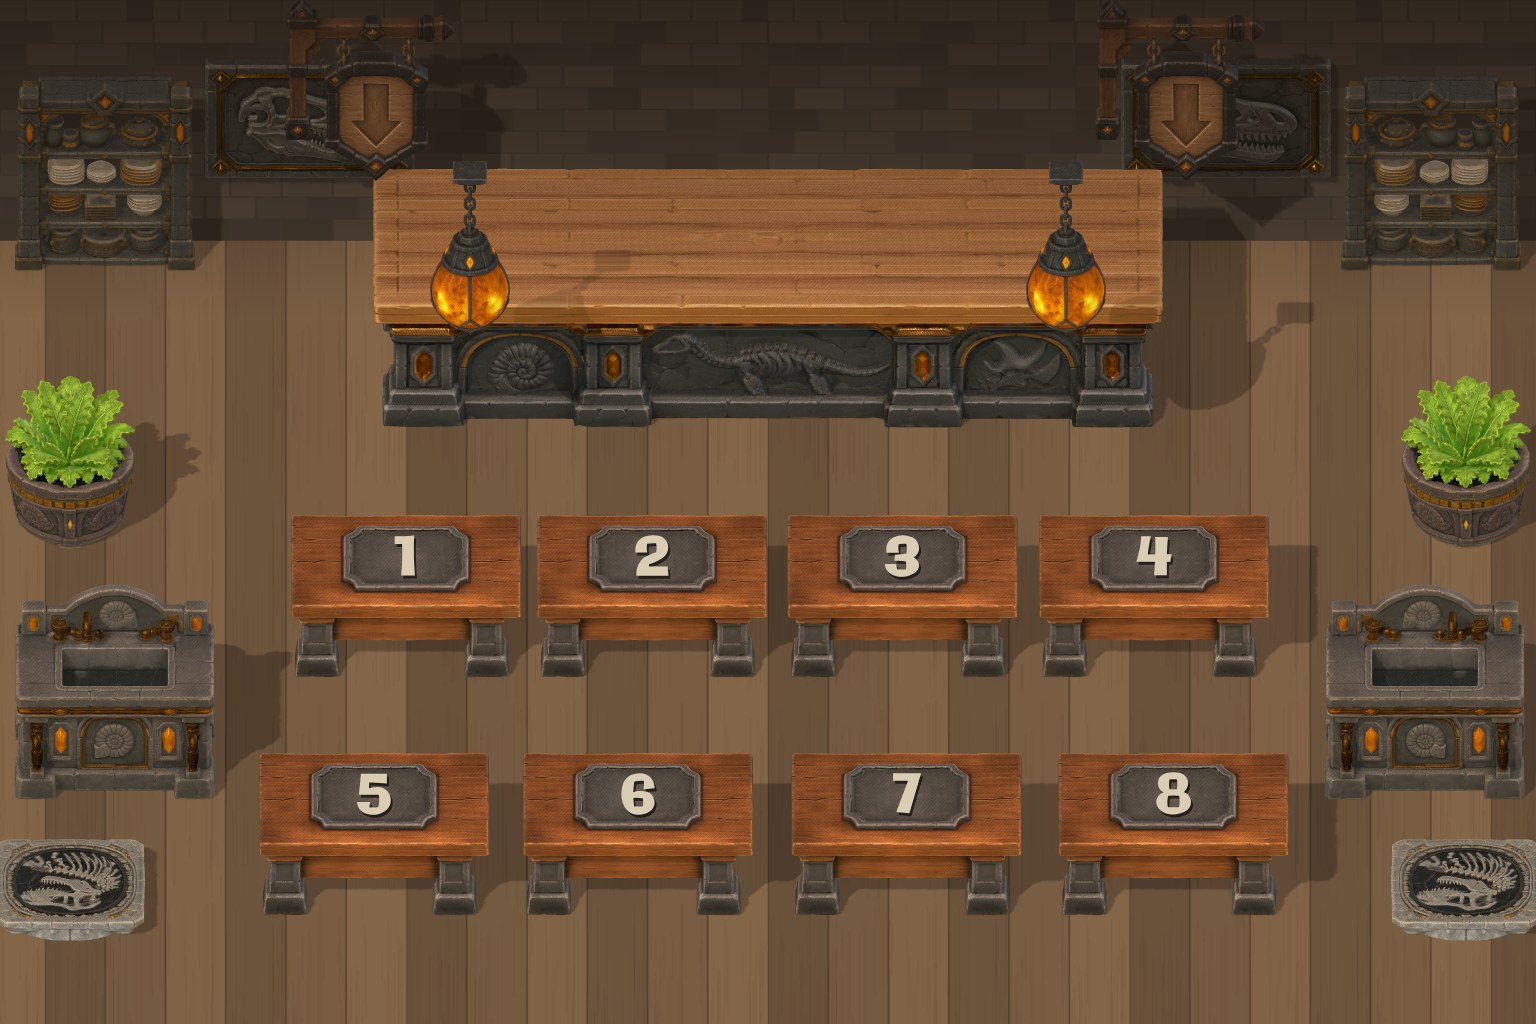
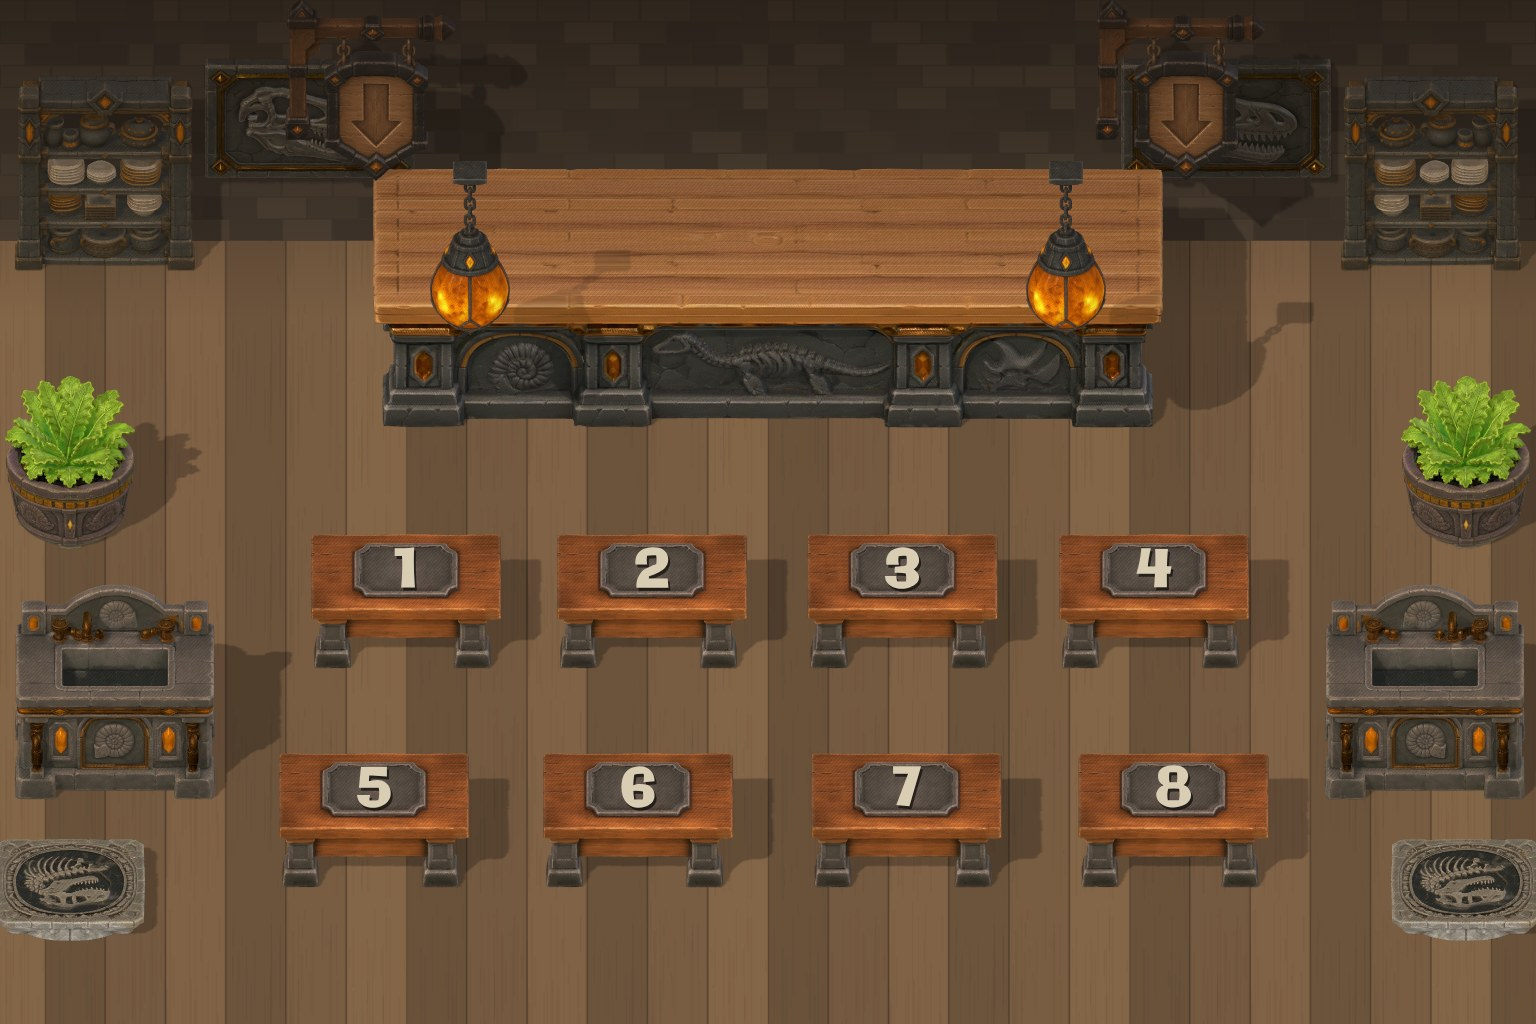
Narrow the tables, and turn the floor inlays the right way up
Two things Rone spotted in the live A/B.

The tables were tight, and the number says how tight: at 190 art px wide the
back row's columns are 246px apart, so 230px tables left 16px of floor between
them. That reads as a bench with eight plaques on it rather than eight tables.
190 opens it to 56px on the back row and 74px on the front.

It buys vertical room as well. A table's screen extent is its height plus its
projected depth, and both scale with width, so the row drops from 168px to
139px. That went into the parts of the room that were tightest: the pickup
floor gains 20px and each pad gap gains 10, so every clearance between a pad
and the furniture either side of it is now about 11px instead of 6.

The floor inlays were backwards, and the cause is the same lay-down that put
them face up in the first place. Rotating a standing prop about X to lay it
flat also turns its own "up" through 90 degrees -- toward the camera -- so the
fossil ended up reading upside down from the player's side of the room. A yaw
of 180 turns the design's top away from the viewer, which is how an
inscription set into a floor is meant to be read. `yaw` is a layout option
rather than a special case in the inlay's own entry, because every flat prop
after this one will need the same thing.

Both boards still pass hands, hud, dpad and contrast, and the audit still
puts every row inside its band with the pickup floor clear.

Claude-Session: https://claude.ai/code/session_01MXraSxieMRMwsPm3ACxvVe

diff --git a/index.html b/index.html
@@ -618,9 +618,9 @@
     // "the game's geometry is remapped to whatever gets built" licenses.
     // barY sits just above each row's top edge; padX drops to the table's own x
     // because the renderer places tables exactly there, where the painting did not.
-    ? { floorTop: 430, r1: { y: 632, padY: 713, barY: 502 },
-                       r2: { y: 870, padY: 951, barY: 740 },
-        passY: 470, busY: 760, padAtX: true }
+    ? { floorTop: 430, r1: { y: 631, padY: 709, barY: 522 },
+                       r2: { y: 850, padY: 927, barY: 741 },
+        passY: 480, busY: 760, padAtX: true }
     // Measured off the painting, and out of spec on every band by 45-115px --
     // see DINING-ROOM-3D-RUNBOOK.md section 1. Kept until the swap.
     : { floorTop: 300, r1: { y: 465, padY: 590, barY: 398 },
